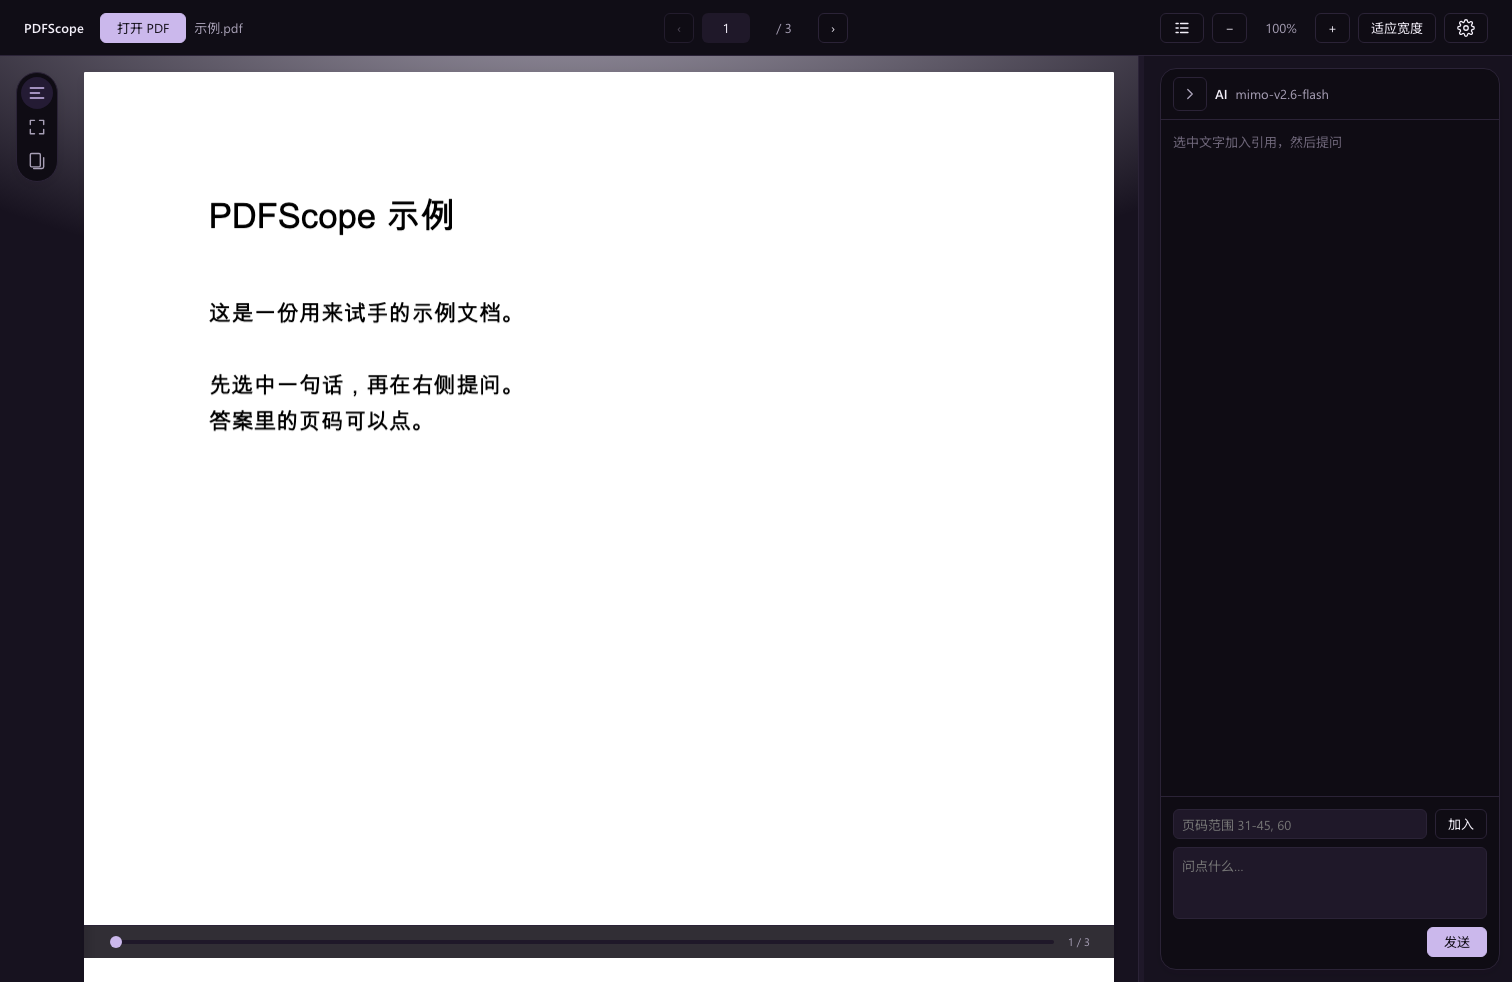
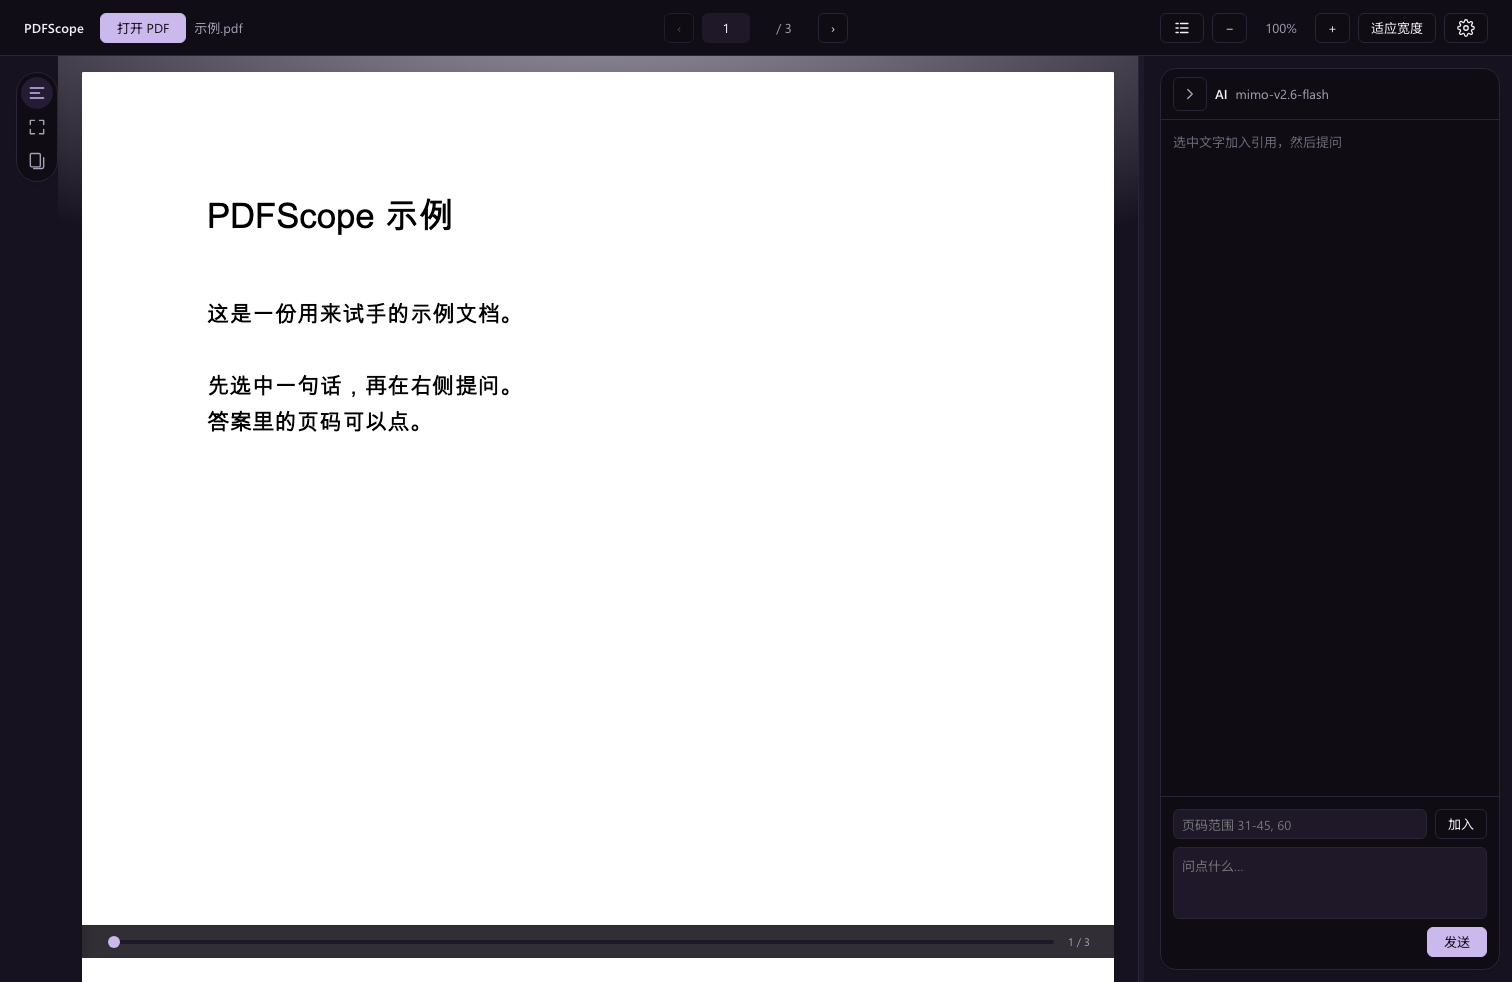
docs: recapture the matrix after the rail became a column
Twelve fresh captures reflect the current shell: pages clear the rail and stay
centred at every size, in both themes. The capture script now retries the
debugging port and disables first-run, which made the run reliable.

Spec: docs/specs/0020-consumer-grade.md

diff --git a/docs/specs/0020-consumer-grade.md b/docs/specs/0020-consumer-grade.md
@@ -202,7 +202,9 @@ documents; toasts never block input. A mis-shown banner costs one click, not dat
 ## Screenshot matrix
 
 `docs/images/matrix/` holds twelve captures: welcome and reader, at 900×700, 1280×800 and 1512×982,
-in light and dark. The matrix did its job on the first run: at 900 px the page slid under the tool
+in light and dark. The set was recaptured after the rail became a layout column, so it reflects the
+current shell; a launcher that retries the debugging port and a plain `http.server` made the run
+reliable after two hung attempts. The matrix did its job on the first run: at 900 px the page slid under the tool
 rail because the stage padding was 24 px and the rail is 48 px wide at x=16. The stage now reserves
 84 px on the left (and returns to 24 px in reading mode). Dark mode deliberately keeps the page white,
 as Preview does; the paper is the document, not the interface.
